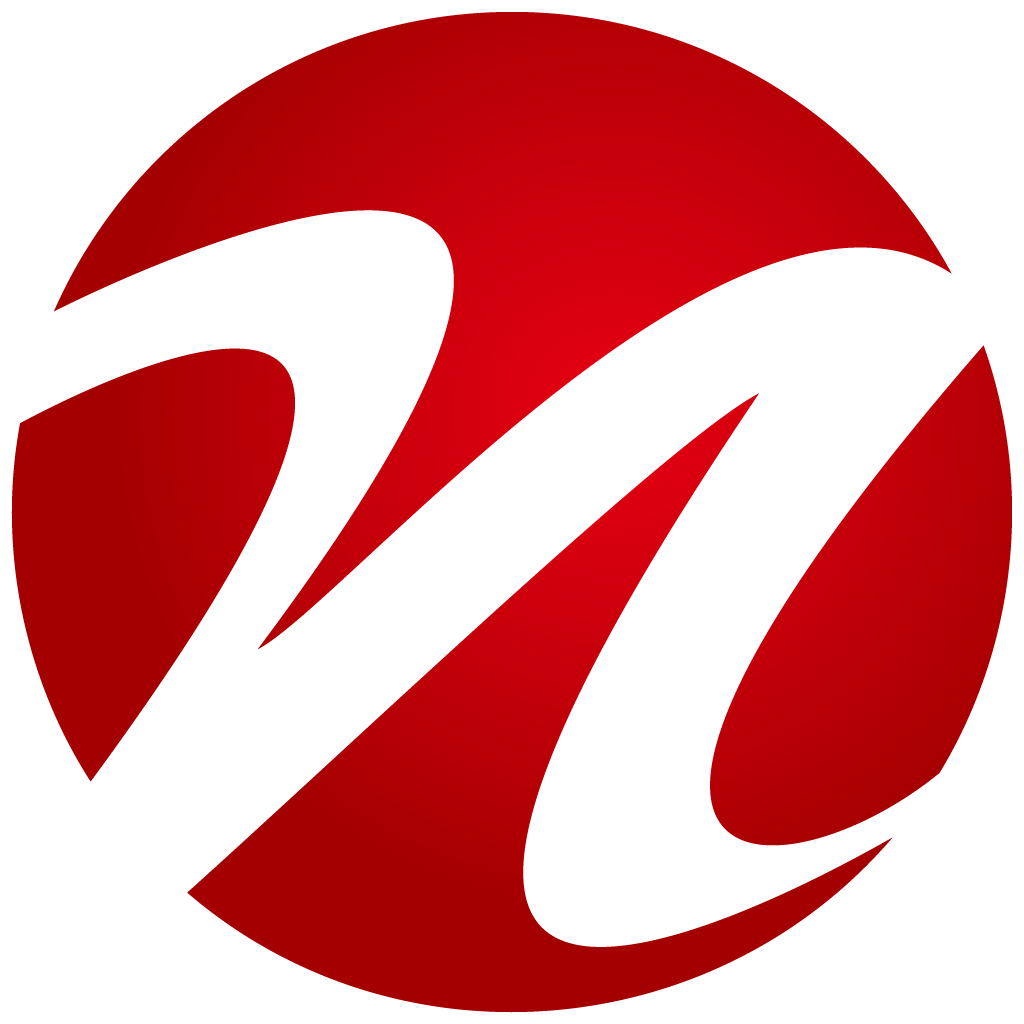
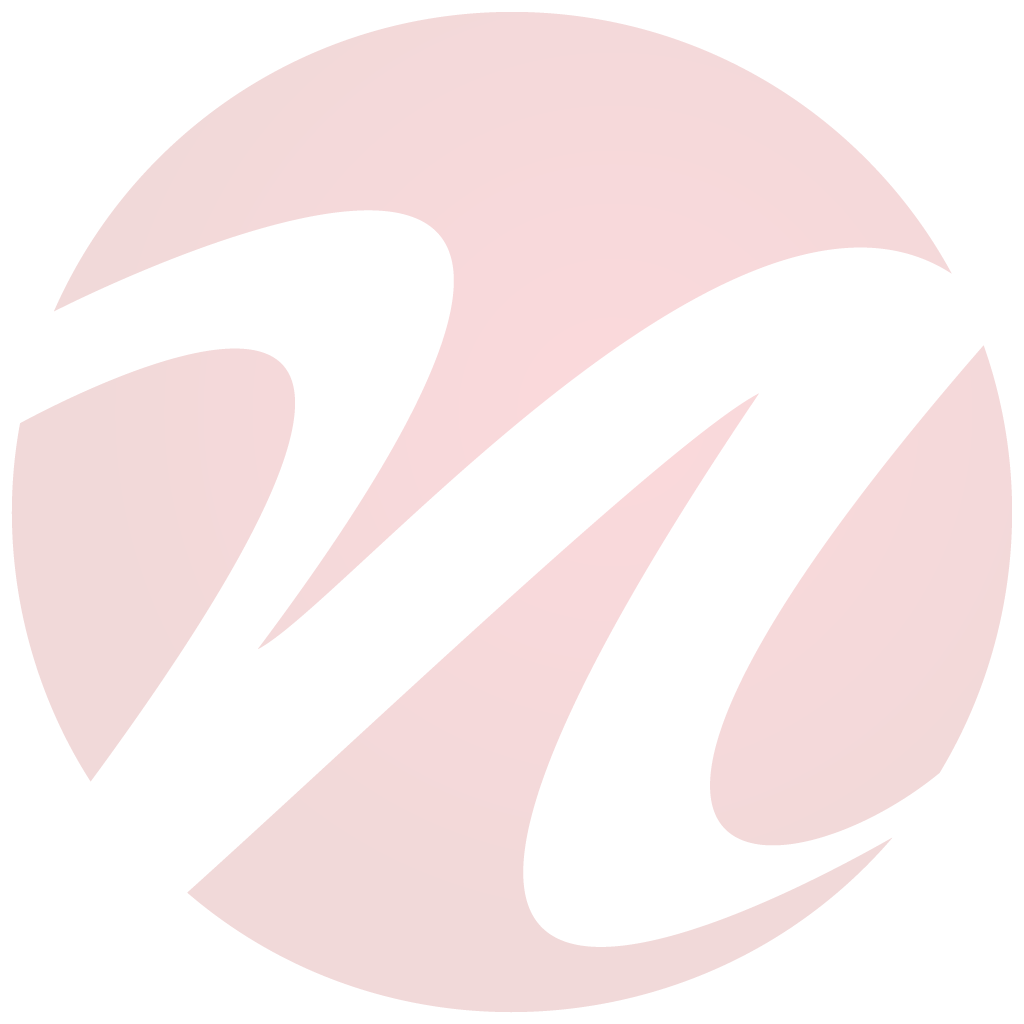
1.0.0

diff --git a/themes/hugo-ganzi/assets/css/custom.css b/themes/hugo-ganzi/assets/css/custom.css
@@ -909,33 +909,3 @@ body:not(.dark) .link-card:hover .link-card-inner {
 .flip:hover .weiicon {
     transform: scale(1.15);
 }
-/* 增强波纹效果：提高起始透明度，并强制独立于父元素透明度 */
-.weiicon:hover:before,
-.weiicon:hover:after {
-    opacity: 1 !important;           /* 强制伪元素完全不透明 */
-    border-color: #d8b3b3;           /* 波纹颜色（可改为更明显的颜色，如 #ed5565） */
-}
-
-/* 调整波纹动画的透明度变化，使其更明显 */
-@keyframes ripple {
-    0% {
-        transform: scale(1.2);
-        opacity: 0.8;                /* 起始更明显 */
-    }
-    25% {
-        transform: scale(1.6);
-        opacity: 0.6;
-    }
-    50% {
-        transform: scale(2);
-        opacity: 0.4;
-    }
-    75% {
-        transform: scale(2.4);
-        opacity: 0.2;
-    }
-    100% {
-        transform: scale(2.8);
-        opacity: 0;
-    }
-}

diff --git a/themes/hugo-ganzi/layouts/_default/baseof.html b/themes/hugo-ganzi/layouts/_default/baseof.html
@@ -53,7 +53,7 @@
                 <h1><a href="https://blog.zznuo.com">杆子博客</a></h1>
                 <div class="blogdescription">博采众长 一诺千金！</div>
             </div>
-        <div class="headicon"><div class="flip"><i class="iconfont weiicon" style="background: url('/ganzi.png') no-repeat center / contain; opacity: 0.15; font-size: 0; border-radius: 50%; transition: transform 0.6s cubic-bezier(0.2, 0.9, 0.4, 1.1);"></i></div></div>
+        <div class="headicon"><div class="flip"><i class="iconfont weiicon" style="background: url('/ganzi.png') no-repeat center / contain; font-size: 0; border-radius: 50%; transition: transform 0.6s cubic-bezier(0.2, 0.9, 0.4, 1.1);"></i></div></div>
         </div>
     </div>
     </div>
